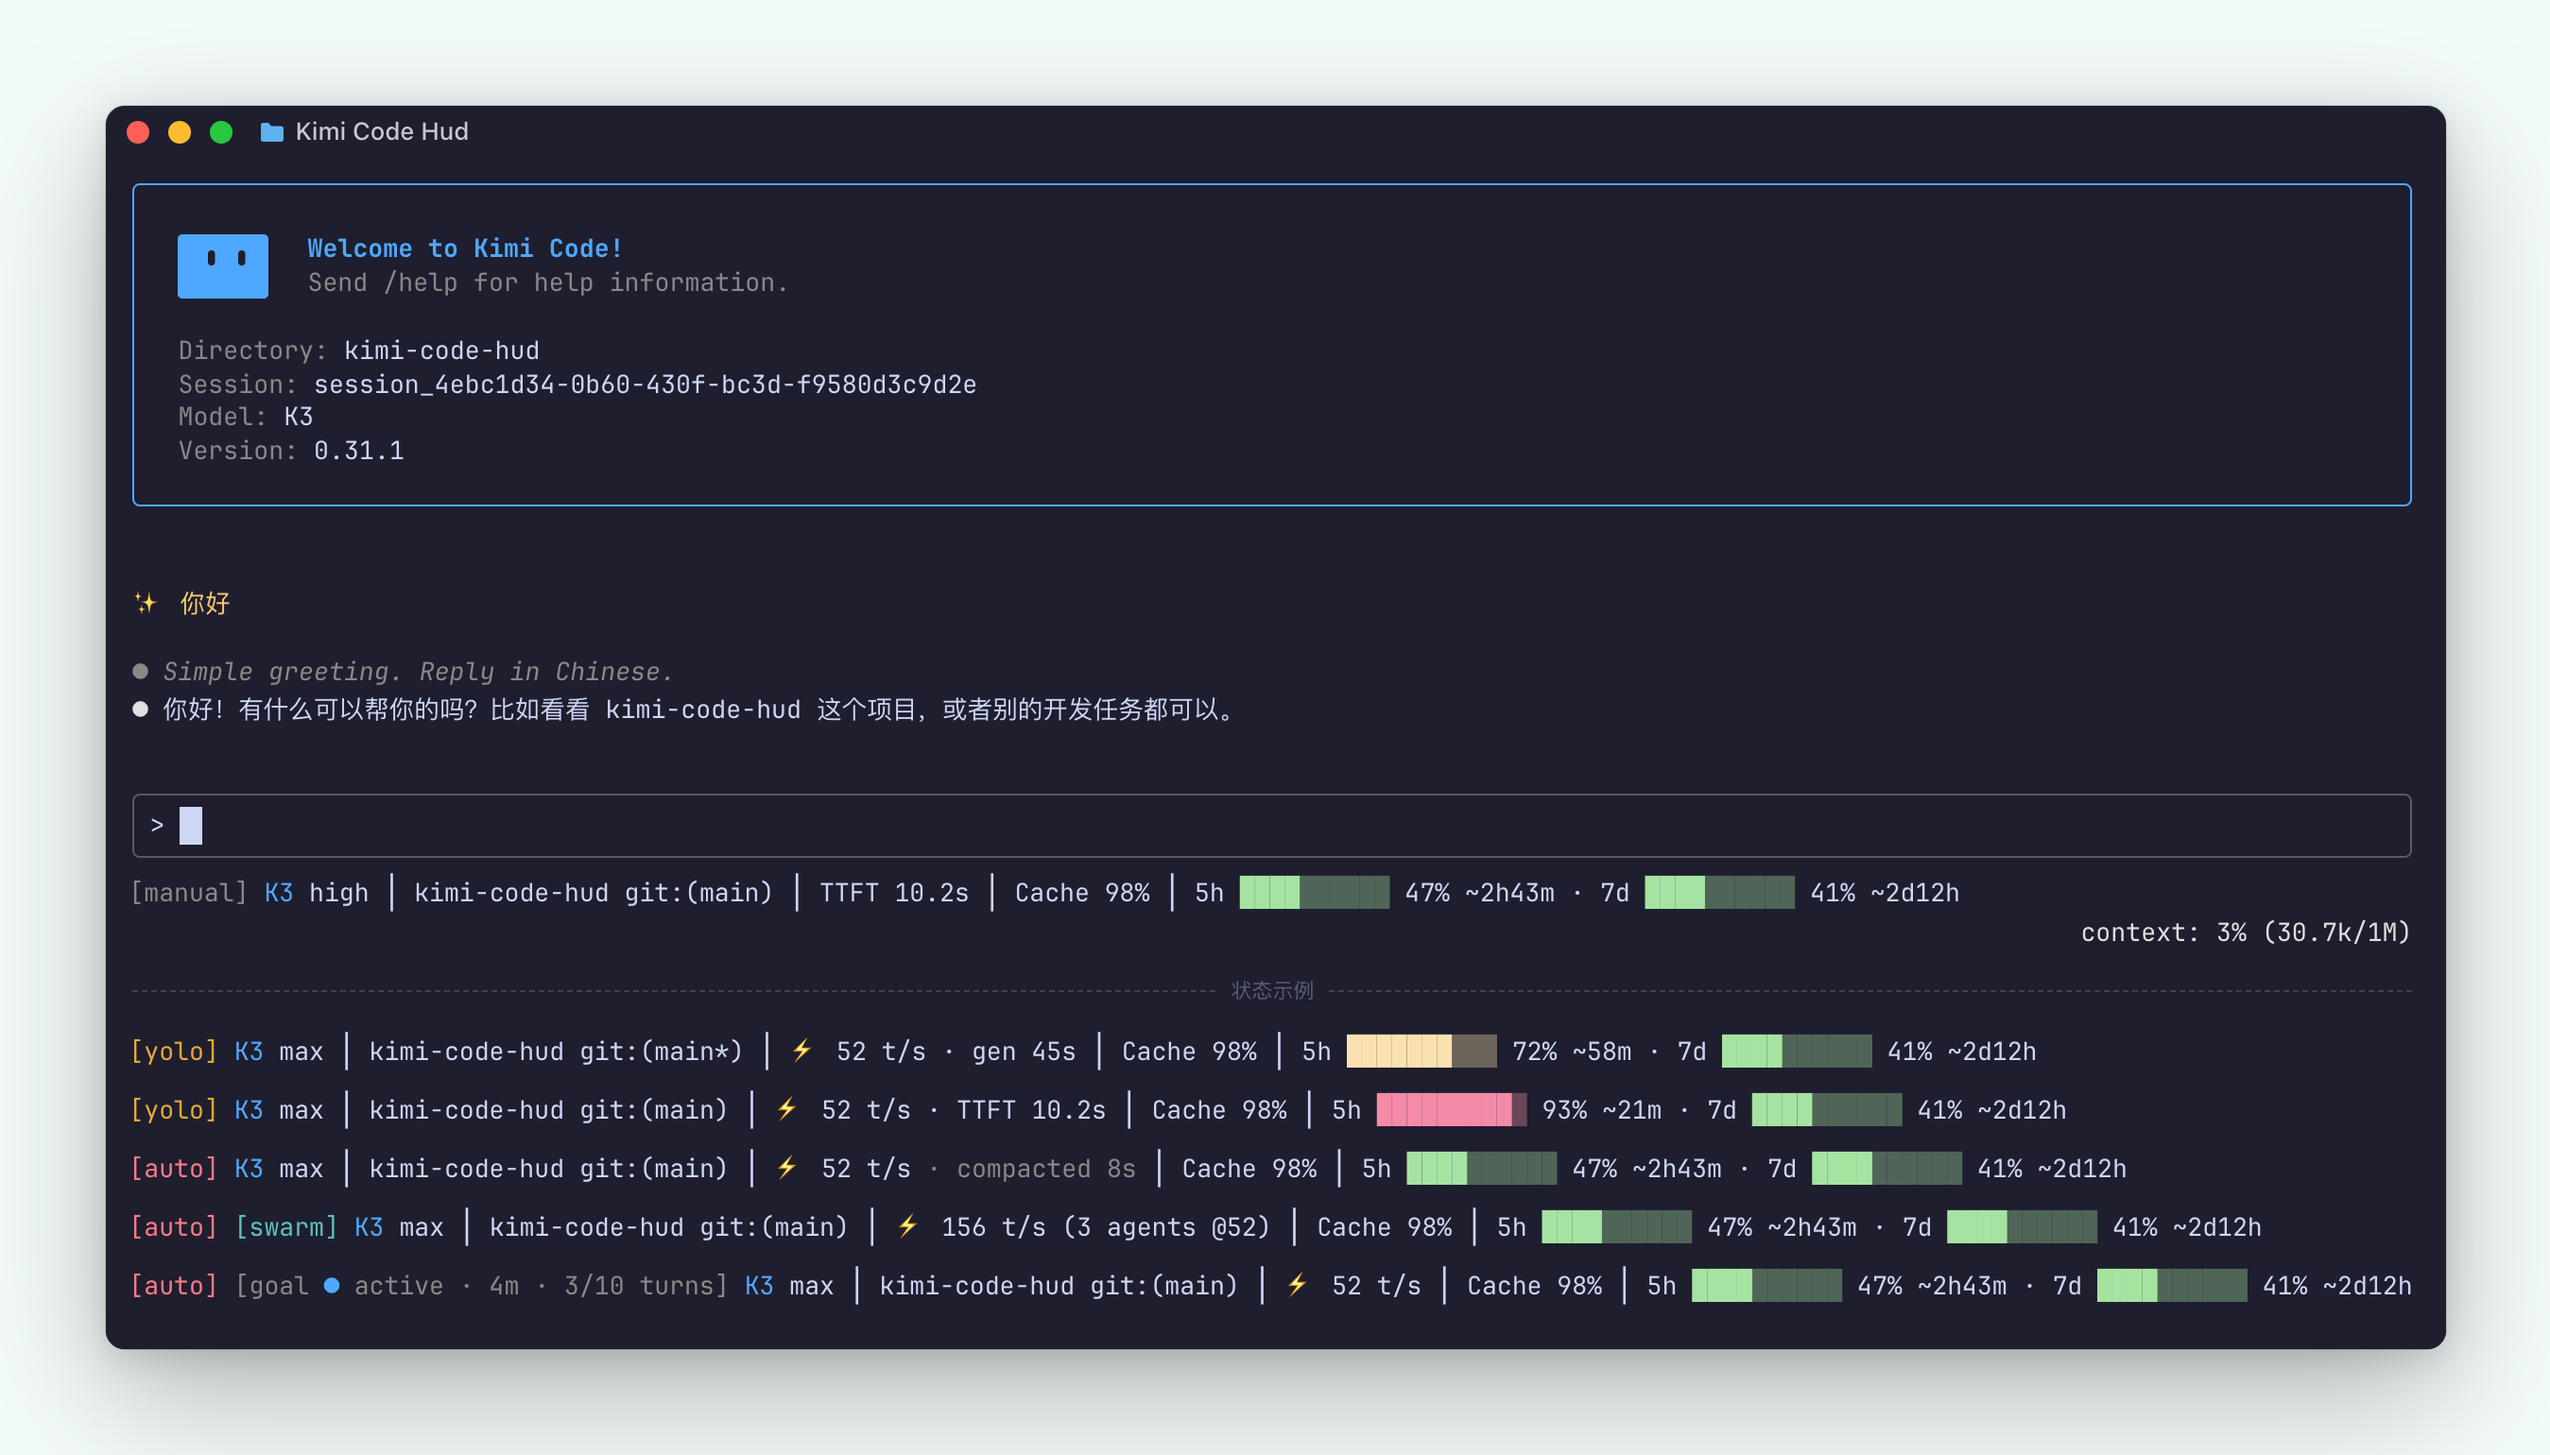
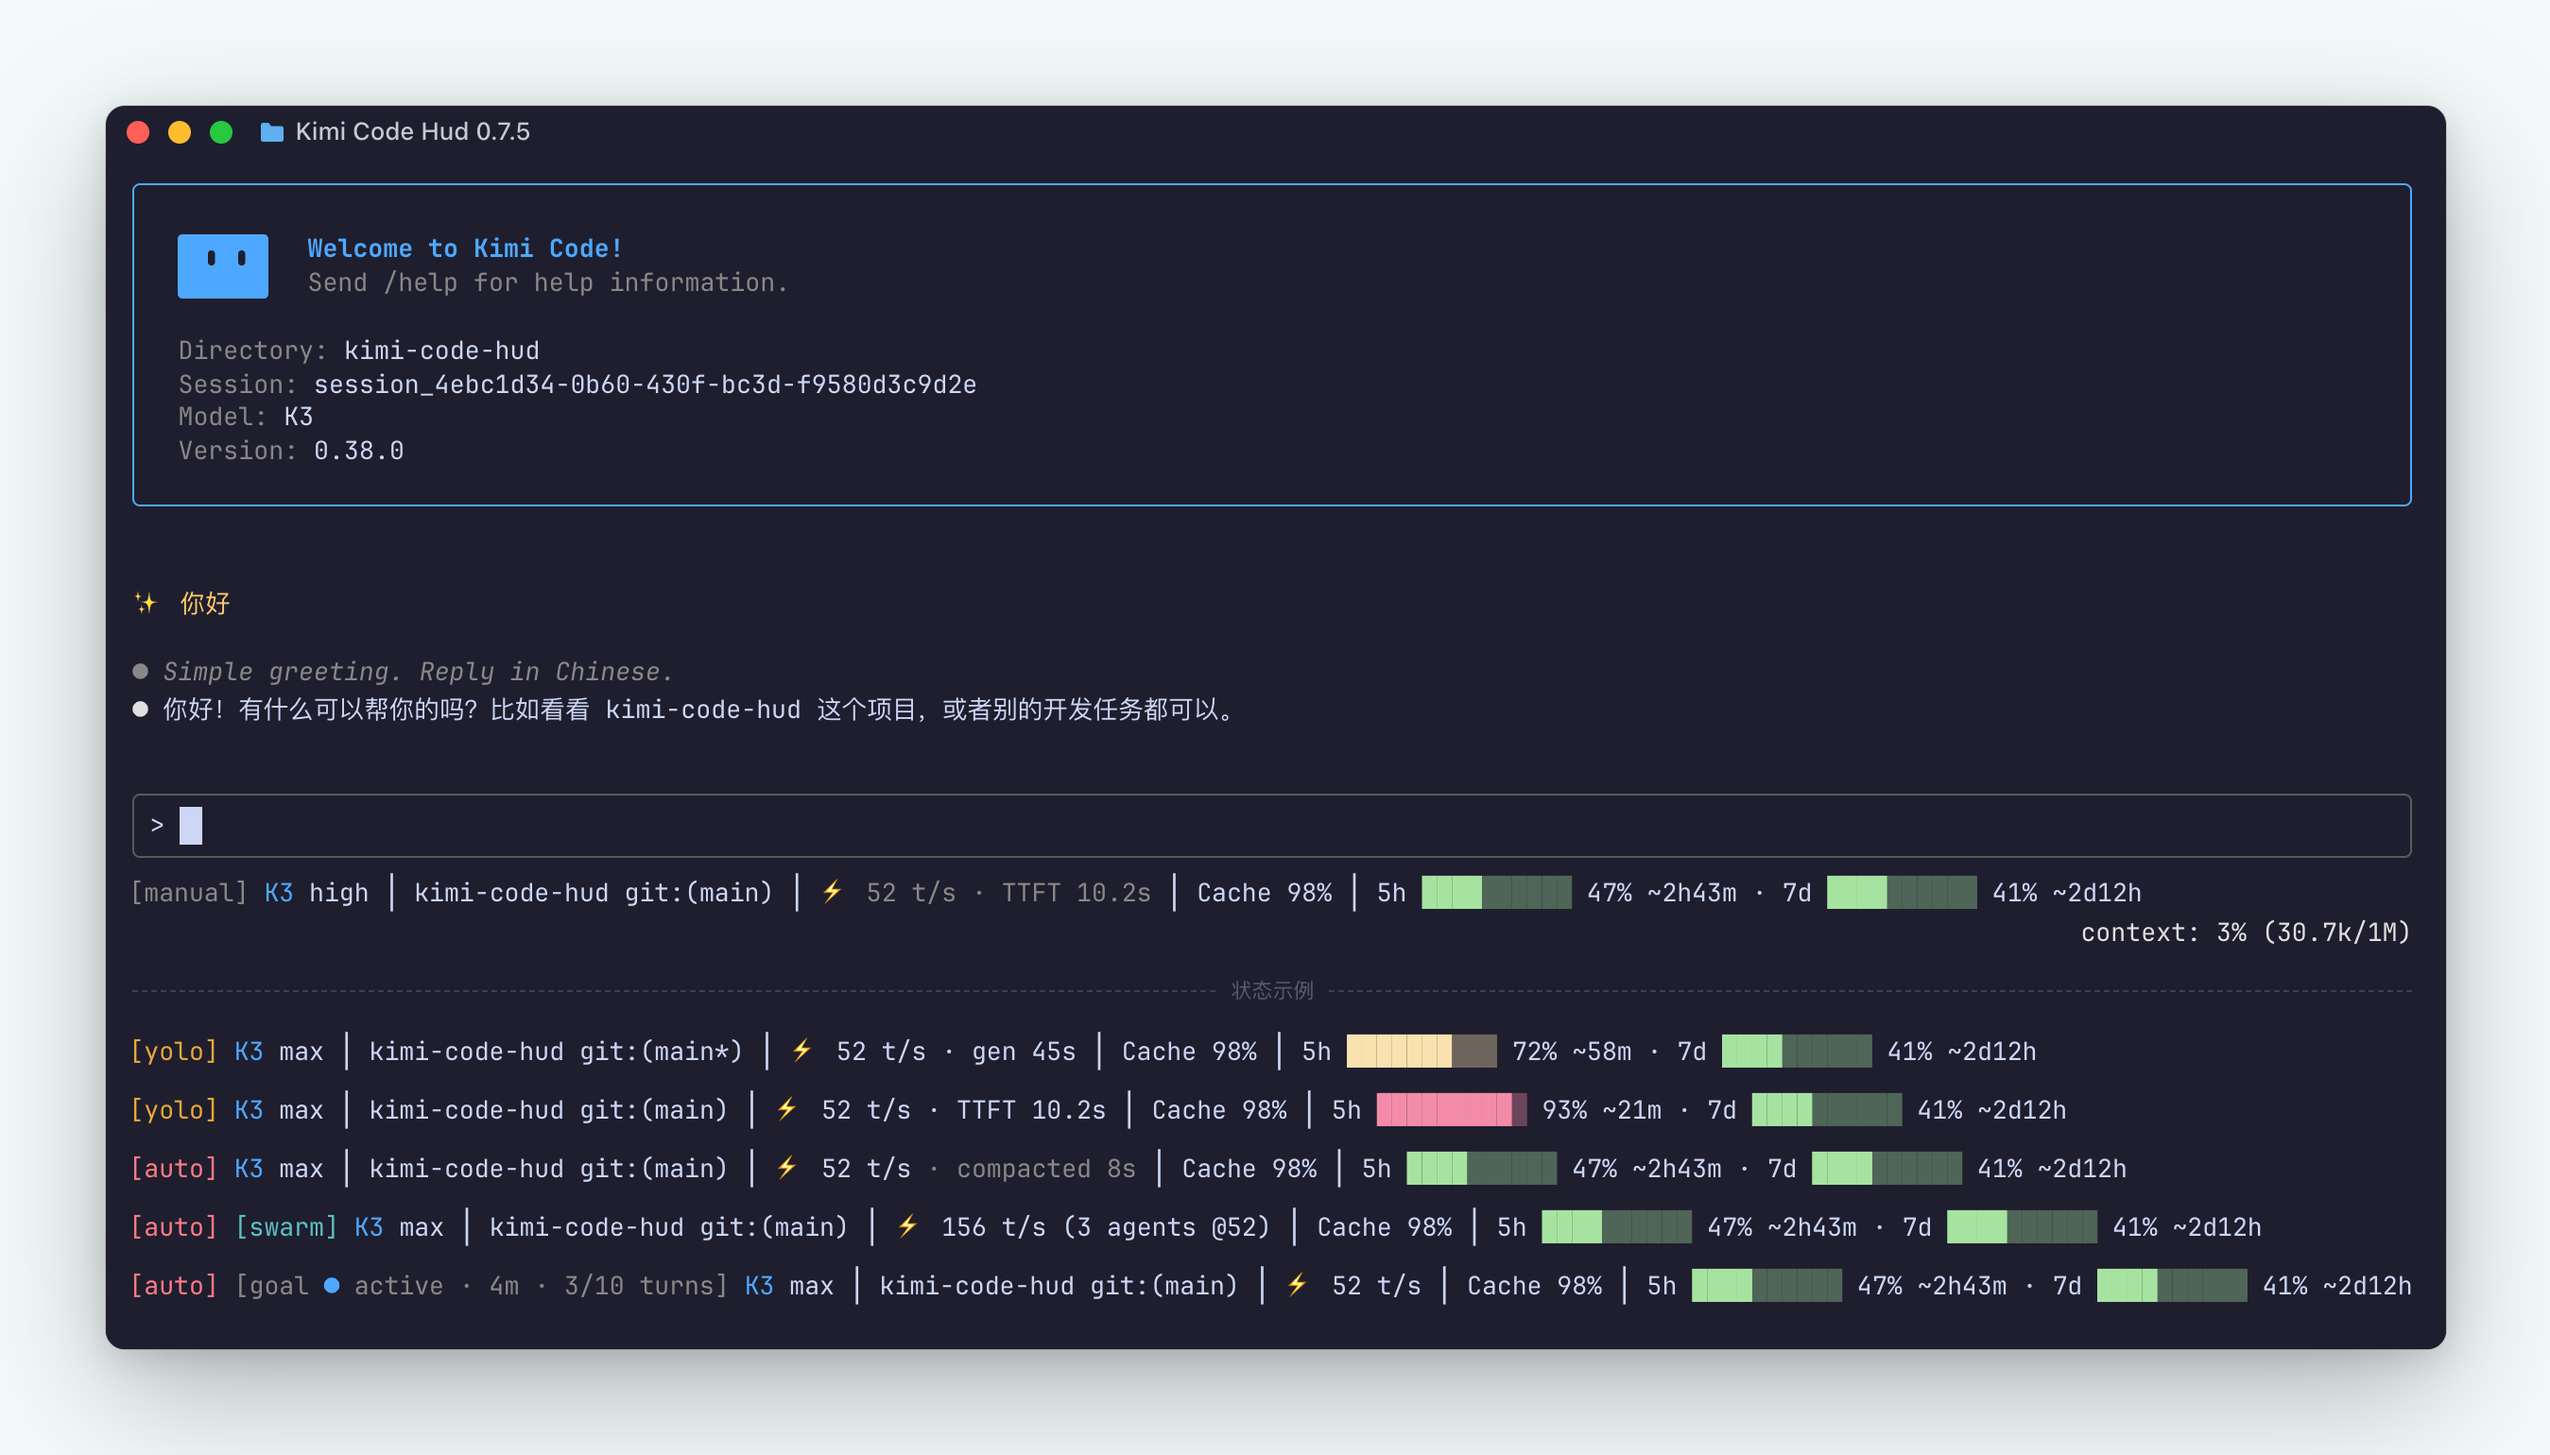
docs: stamp versions into showcase images, gated at release

Changed region(s): [[0.3113, 0.5922, 0.8406, 0.6234]]

diff --git a/AGENTS.md b/AGENTS.md
@@ -24,7 +24,7 @@ Use `node:test` with `node:assert/strict`. Name files `test/<module>.test.mjs` a
 
 ## Commit & Pull Request Guidelines
 
-Write short, imperative commit subjects. History uses both direct subjects (`Add SessionStart self-heal hook`) and Conventional Commit prefixes (`fix: harden state and config handling`). Keep each commit scoped to one behavior. Pull requests should explain the user-visible change, list verification commands, link relevant issues, and include terminal output or screenshots for HUD layout changes.
+Write short, imperative commit subjects. History uses both direct subjects (`Add SessionStart self-heal hook`) and Conventional Commit prefixes (`fix: harden state and config handling`). Keep each commit scoped to one behavior. Pull requests should explain the user-visible change, list verification commands, link relevant issues, and include terminal output or screenshots for HUD layout changes. A release commit must first regenerate the showcase images (`node docs/showcase/render-states.mjs && python3 docs/showcase/export-assets.py`) and confirm the header title bar shows the new HUD version while the welcome-box Version matches the `CAPABILITIES.md` Kimi Code baseline.
 
 ## Issue Workflow
 
